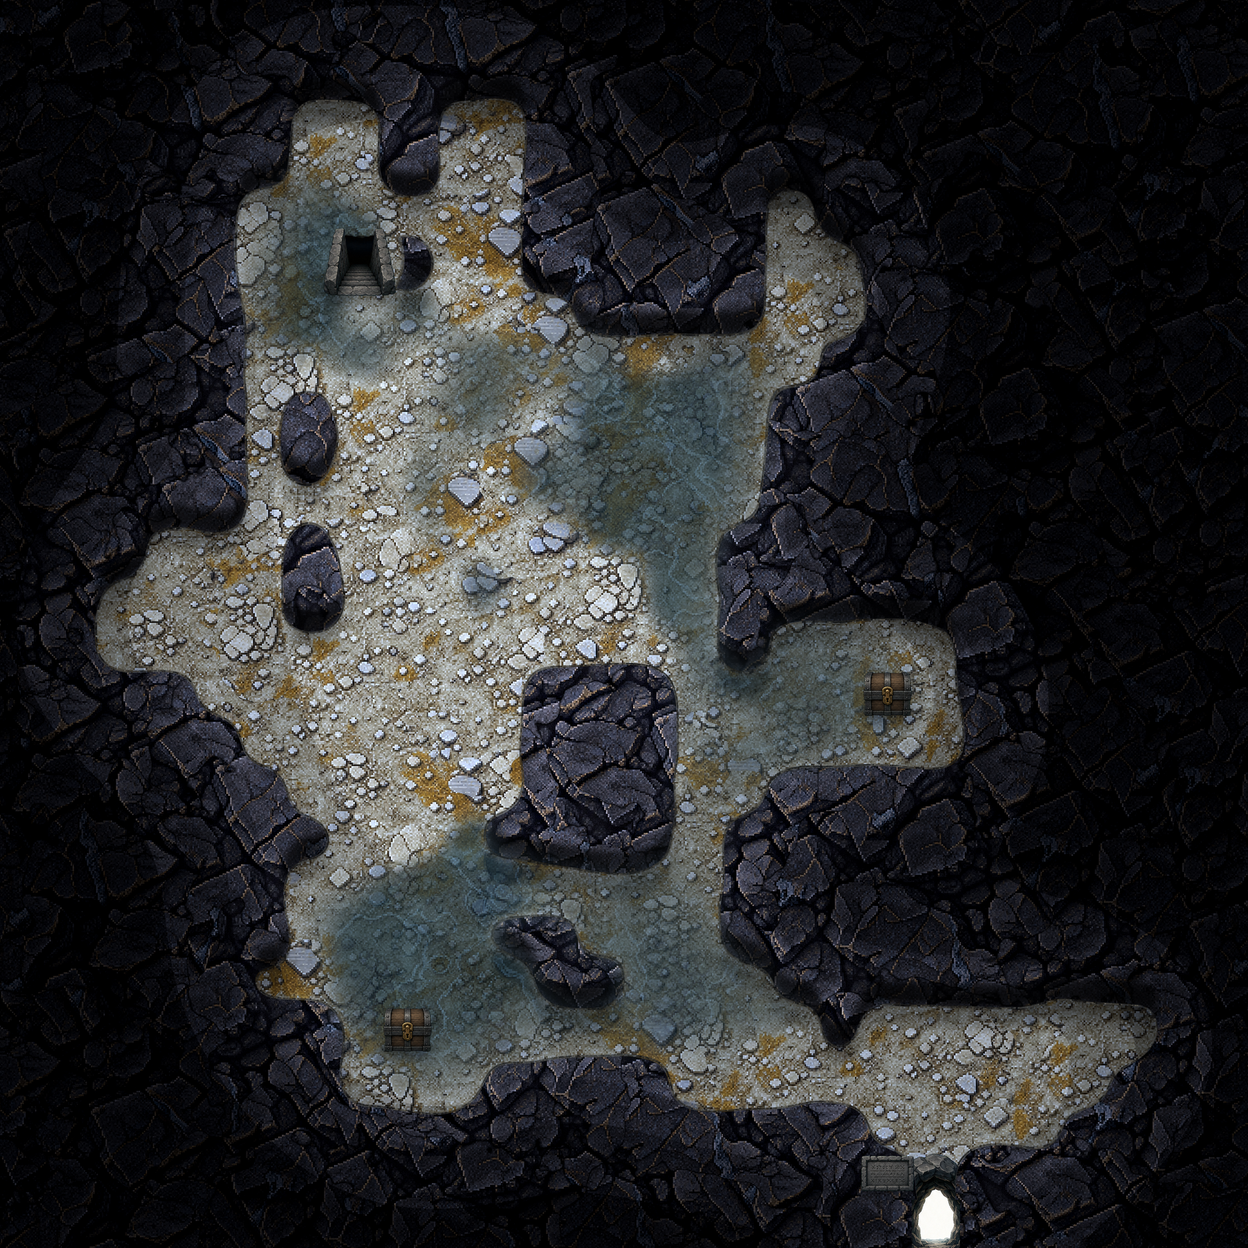
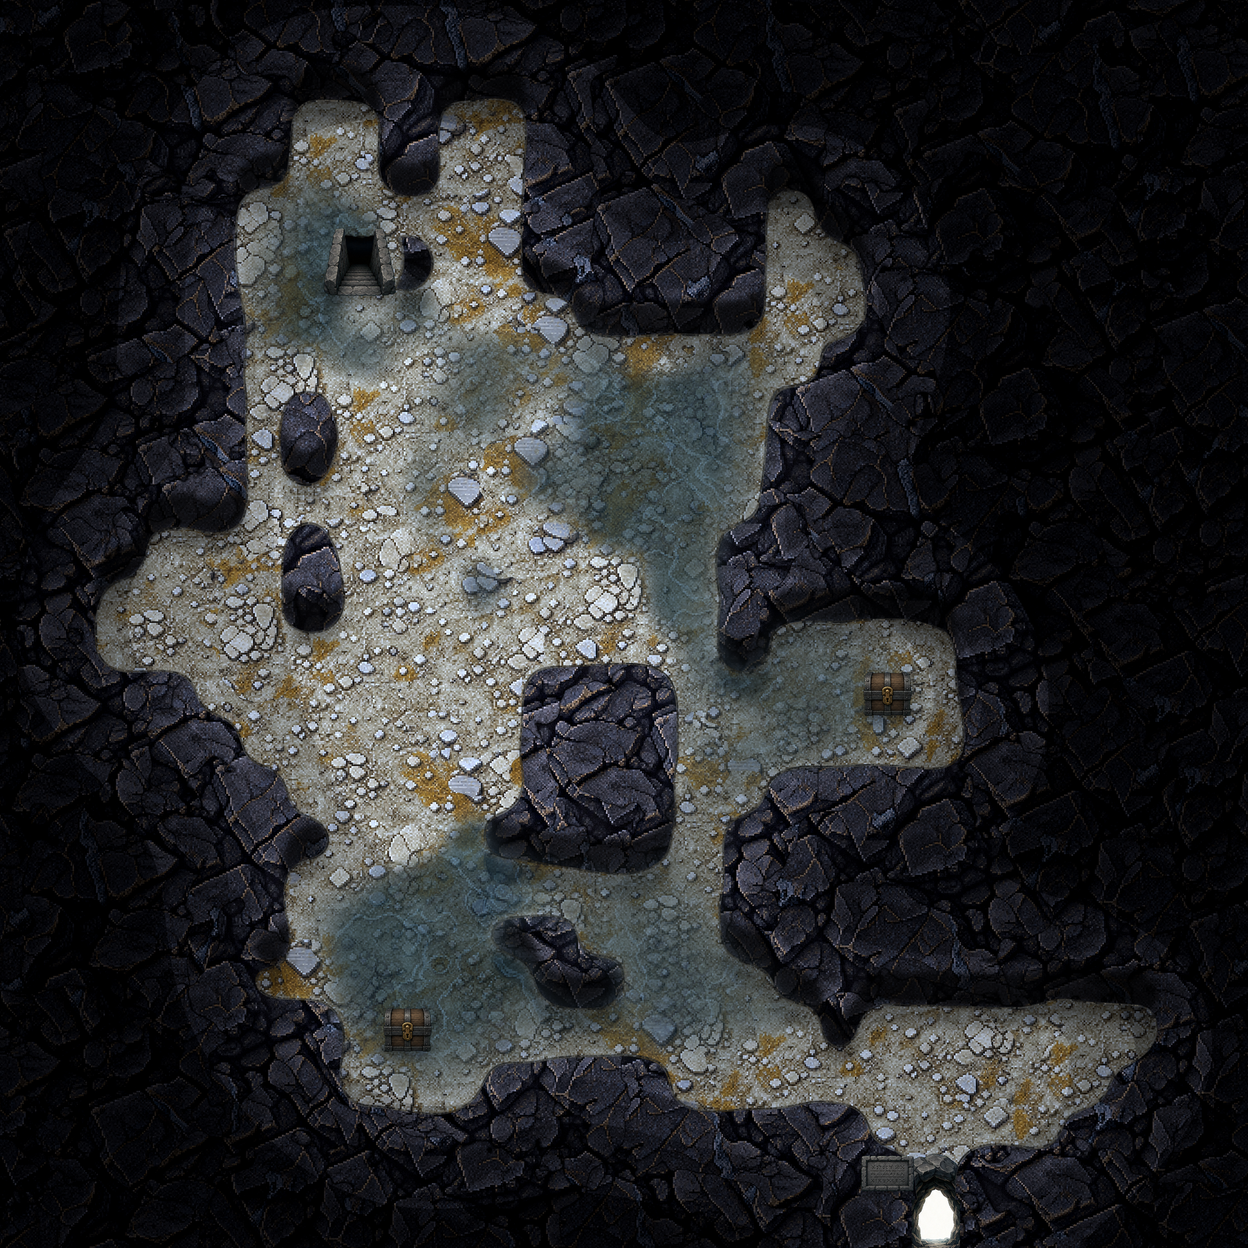
feat(act1-dungeon): deepen the wall face to 0.70 -- the shaded band now fits the character
Owner, having played the cellar: "the bleeding into the shaded area of the walls seem too
much. either the shading needs to be increased (to make the walls look taller) or the
bleeding needs to be reduced." He named both levers and picked the middle of a three-way
render comparison with the heroine composited in at true scale.

WHY DEEPENING, NOT LESS BLEED: at face_h 0.46 the drawn shaded face measured ~22 px while
she is 52 px tall above her soles -- she cannot fit inside the shade, so her body always
spilled onto the LIT top. That was never a collision-tuning problem. At 0.70 the face is
~34 px and most of her sits inside it. The alternative lever is capped: A1M_FOOT 18
orphans three authored assets and strands 40 cells, so clearance stops at 16 and cannot
close this gap. A taller face costs no corridor width at all.

All three sunkenCellar floors re-baked and re-pinned; dimensions re-verified against
act1-dungeon-floors.json (26x26, 32x28, 34x29, all exactly 48 px/cell). The crisp-rim
work from eb57402 is untouched -- only the face height moves.

docs/DUNGEON-EDGE-STYLE-LOCK.md records the new value, the measurement behind it and why
it must not be walked back to recover floor brightness without the owner.

ship-gate PASS, bundle byte-identical. Applies to all nine in-scope floors on their next
bake.

diff --git a/scripts/render_dungeon_material_map.py b/scripts/render_dungeon_material_map.py
@@ -561,7 +561,14 @@ def render(rows: list[str], mats: dict, theme: str, scale: int = 1,
     #    three things, and it needs all three: a TOP that catches light, a near FACE turned away
     #    from it, and a SHADOW the mass throws onto the floor. The step from lit top to dark face
     #    to shadowed floor IS the depth cue — no amount of texture detail substitutes for it.
-    face_h = max(2, int(px * 0.46))     # apparent height of the wall's visible face, in pixels
+    # 0.70, owner 2026-08-06, chosen off a three-way in-game comparison with the heroine
+    # composited in at true scale. At the previous 0.46 the shaded face measured ~22 px while she
+    # is 52 px tall above her soles, so her body could not fit inside it and always spilled onto
+    # the LIT top -- which is what he saw as "bleeding into the shaded area of the walls seem too
+    # much". He named the two levers himself: deepen the shading, or cut the bleed. Deepening wins
+    # because more foot clearance narrows the cave (18 px orphans three assets) while a taller
+    # face costs no corridor width at all. ~34 px now sits most of her body inside the shade.
+    face_h = max(2, int(px * 0.70))     # apparent height of the wall's visible face, in pixels
     drop = max(2, int(px * 0.34))       # how far its shadow reaches out across the floor
 
     wall = 1.0 - a

diff --git a/scripts/runtime_baseline.py b/scripts/runtime_baseline.py
@@ -128,11 +128,11 @@ ACT1_DUNGEON_FILES = {
     "act1-dungeon-floors.json": (
[1 lines of base64/hex data omitted]
     "act1-dungeon-art/sunkenCellar-f1-props.png": (
[2 lines of base64/hex data omitted]
     "act1-dungeon-art/sunkenCellar-f2-props.png": (
[2 lines of base64/hex data omitted]
     "act1-dungeon-art/sunkenCellar-f3-props.png": (
[2 lines of base64/hex data omitted]
     # 2026-08-05: THE COLLISION SHAPE, and therefore as much a shipped authority as the picture it
     # comes from. Each is `fw` -- the renderer's own floor field -- thresholded at the same 0.5
     # that decides every pixel of the matching *-props.png, emitted at that render's own

diff --git a/docs/DUNGEON-EDGE-STYLE-LOCK.md b/docs/DUNGEON-EDGE-STYLE-LOCK.md
@@ -20,6 +20,25 @@ Measured 10-90% luminance transition across the boundary, whole floor, ~2000 sam
 
 3.4 px is the material edge itself — as crisp as a 48 px/cell lattice can resolve.
 
+## Wall face height — LOCKED at 0.70 (owner, 2026-08-06)
+
+`face_h = max(2, int(px * 0.70))` in `scripts/render_dungeon_material_map.py`. Was 0.46.
+
+Owner, having played the cellar: *"the bleeding into the shaded area of the walls seem too much.
+either the shading needs to be increased (to make the walls look taller) or the bleeding needs to
+be reduced."* He named both levers; deepening the shading is the one that was taken.
+
+The measurement that decided it: at 0.46 the drawn shaded face was **~22 px** while the heroine is
+**52 px tall above her soles**. She physically cannot fit inside the shade, so her body always
+spilled onto the LIT top. At 0.70 the face is ~34 px and most of her sits inside it.
+
+Deepening beats the alternative because **more foot clearance narrows the cave**: `A1M_FOOT` 18
+orphans three authored assets and strands 40 cells, so clearance is capped at 16 and cannot solve
+this. A taller face costs no corridor width at all.
+
+Do NOT reduce this back toward 0.46 to "recover floor brightness" without the owner — the trade was
+made deliberately and with the character composited in at true scale.
+
 ## What must NOT change to "improve" this
 
 Each of these was tried, rendered and rejected. Do not re-litigate without the owner:
